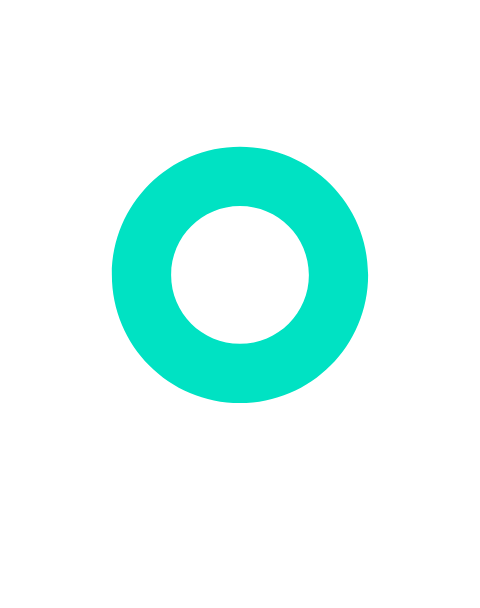
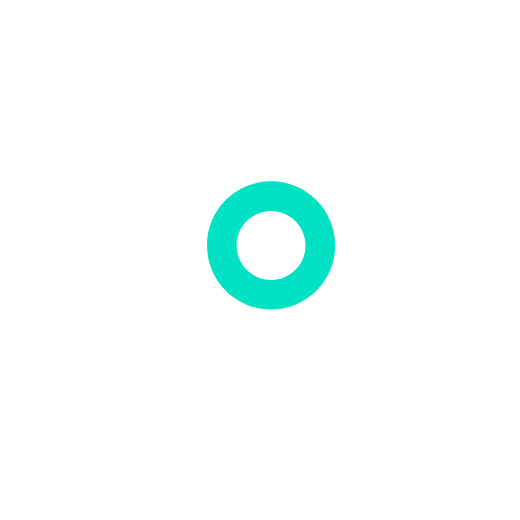
updated assets

Changed region(s): [[0.2188, 0.2154, 0.7812, 0.6769]]

diff --git a/constant/gallery.ts b/constant/gallery.ts
@@ -11,12 +11,12 @@ export const gallery = [
     imageWidth: 2400,
     imageHeight: 3600,
   },
-  // {
-  //   imageTitle: 'Memories Three',
-  //   imageName: '20193',
-  //   imageWidth: 3600,
-  //   imageHeight: 2400,
-  // },
+  {
+    imageTitle: 'Memories Three',
+    imageName: '20193',
+    imageWidth: 3600,
+    imageHeight: 2400,
+  },
   {
     imageTitle: 'Memories Four',
     imageName: '20194',
@@ -35,24 +35,24 @@ export const gallery = [
     imageWidth: 3600,
     imageHeight: 2400,
   },
-  {
-    imageTitle: 'Memories Six',
-    imageName: '20197',
-    imageWidth: 3600,
-    imageHeight: 2400,
-  },
+  // {
+  //   imageTitle: 'Memories Six',
+  //   imageName: '20197',
+  //   imageWidth: 3600,
+  //   imageHeight: 2400,
+  // },
   {
     imageTitle: 'Memories Five',
     imageName: '20198',
     imageWidth: 3600,
     imageHeight: 2400,
   },
-  // {
-  //   imageTitle: 'Memories Six',
-  //   imageName: '20199',
-  //   imageWidth: 3600,
-  //   imageHeight: 2400,
-  // },
+  {
+    imageTitle: 'Memories Six',
+    imageName: '20199',
+    imageWidth: 3600,
+    imageHeight: 2400,
+  },
   {
     imageTitle: 'Memories Two',
     imageName: '201910',

diff --git a/constant/gallery2022.ts b/constant/gallery2022.ts
@@ -12,8 +12,8 @@ export const gallery2022 = [
     imageHeight: 3600,
   },
   {
-    imageTitle: 'Memories 119',
-    imageName: '119',
+    imageTitle: 'Memories 59',
+    imageName: '59',
     imageWidth: 2400,
     imageHeight: 3600,
   },
@@ -43,7 +43,13 @@ export const gallery2022 = [
   },
   {
     imageTitle: 'Memories 366',
-    imageName: '366',
+    imageName: '255',
+    imageWidth: 2400,
+    imageHeight: 3600,
+  },
+  {
+    imageTitle: 'Memories 181',
+    imageName: '181',
     imageWidth: 2400,
     imageHeight: 3600,
   },
@@ -56,6 +62,12 @@ export const gallery2022 = [
   {
     imageTitle: 'Memories 695',
     imageName: '695',
+    imageWidth: 2400,
+    imageHeight: 3600,
+  },
+  {
+    imageTitle: 'Memories 467',
+    imageName: '467',
     imageWidth: 2400,
     imageHeight: 3600,
   },

diff --git a/constant/eventTypes.ts b/constant/eventTypes.ts
@@ -18,7 +18,7 @@ export const eventTypes = [
   {
     id: 3,
     eventName: 'Talks',
-    imageName: 'interview',
+    imageName: 'talks',
     lightBG: 'bg-accent',
     darkBG: 'dark:bg-accent-dark',
     edgeRadius: 'md:rounded-none rounded-l-xl',
@@ -41,8 +41,8 @@ export const eventTypes = [
   },
   {
     id: 6,
-    eventName: 'HackBounty',
-    imageName: 'hackbounty',
+    eventName: 'Office Hours',
+    imageName: 'officehours',
     lightBG: 'bg-secondary',
     darkBG: 'dark:bg-secondary-dark',
     edgeRadius: 'rounded-r-xl',

diff --git a/components/home/EventTypes.tsx b/components/home/EventTypes.tsx
@@ -20,8 +20,8 @@ export const EventTypes = () => {
                   <Image
                     src={`/images/events/${eventType.imageName}.png`}
                     alt={eventType.imageName}
-                    width={300}
-                    height={300}
+                    width={512}
+                    height={512}
                   />
                 </div>
                 <h4 className="mt-2 font-bold lowercase text-xl">
